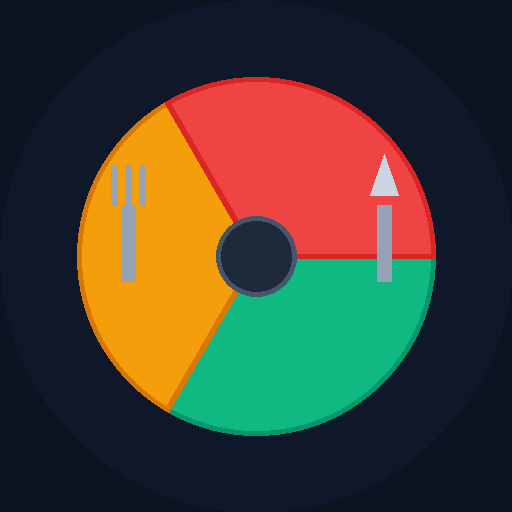
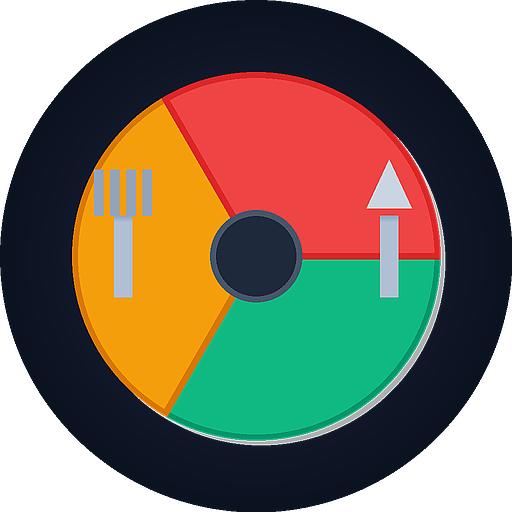
fix: corrigir salvamento de login e melhorar nitidez dos ícones

diff --git a/index.html b/index.html
@@ -2386,6 +2386,20 @@
             
             localStorage.setItem(CURRENT_USER_KEY, JSON.stringify(currentUser));
             
+            // Salvar credenciais se "lembrar login" estiver marcado (APÓS login bem-sucedido)
+            const rememberCheckbox = document.getElementById('rememberLogin');
+            if (rememberCheckbox && rememberCheckbox.checked) {
+              console.log('💾 Salvando credenciais para login automático...');
+              localStorage.setItem('nutrix-remember-login', 'true');
+              localStorage.setItem('nutrix-saved-email', username);
+              localStorage.setItem('nutrix-saved-password', btoa(password));
+            } else {
+              console.log('🔓 Removendo credenciais salvas (lembrar desmarcado)');
+              localStorage.removeItem('nutrix-remember-login');
+              localStorage.removeItem('nutrix-saved-email');
+              localStorage.removeItem('nutrix-saved-password');
+            }
+            
             showAuthMessage('✅ Login bem-sucedido!', 'success');
             
             setTimeout(async () => {
@@ -3217,19 +3231,9 @@
       e.preventDefault();
       const username = document.getElementById('loginUsername').value;
       const password = document.getElementById('loginPassword').value;
-      const rememberLogin = document.getElementById('rememberLogin').checked;
       
-      // Salvar credenciais se "lembrar login" estiver marcado
-      if (rememberLogin) {
-        localStorage.setItem('nutrix-remember-login', 'true');
-        localStorage.setItem('nutrix-saved-email', username);
-        localStorage.setItem('nutrix-saved-password', btoa(password)); // Criptografar básico
-      } else {
-        localStorage.removeItem('nutrix-remember-login');
-        localStorage.removeItem('nutrix-saved-email');
-        localStorage.removeItem('nutrix-saved-password');
-      }
-      
+      // A lógica de salvar credenciais foi movida para dentro da função login()
+      // para garantir que só salva APÓS login bem-sucedido
       login(username, password);
     });
     

diff --git a/sw.js b/sw.js
@@ -1,4 +1,4 @@
-const CACHE_NAME = 'nutrix-v12';
+const CACHE_NAME = 'nutrix-v13';
 
 // Detectar base path automaticamente
 const BASE_PATH = self.location.pathname.replace('/sw.js', '');

diff --git a/criar-icones.py b/criar-icones.py
@@ -1,0 +1,150 @@
+from PIL import Image, ImageDraw, ImageFilter
+import os
+
+# Criar pasta icons se não existir
+os.makedirs('icons', exist_ok=True)
+
+def criar_icone(tamanho):
+    # Criar imagem em alta resolução (2x) para melhor qualidade
+    escala = 2
+    tamanho_alta_res = tamanho * escala
+    img = Image.new('RGBA', (tamanho_alta_res, tamanho_alta_res), (0, 0, 0, 0))
+    draw = ImageDraw.Draw(img, 'RGBA')
+    
+    # Fundo com gradiente radial suave
+    centro = tamanho_alta_res // 2
+    for i in range(centro, 0, -2):
+        distancia = i / centro
+        # Gradiente de preto puro para cinza escuro azulado
+        r = int(11 + (30 - 11) * (1 - distancia))
+        g = int(18 + (41 - 18) * (1 - distancia))
+        b = int(32 + (66 - 32) * (1 - distancia))
+        alpha = 255
+        draw.ellipse(
+            [(centro - i, centro - i), (centro + i, centro + i)],
+            fill=(r, g, b, alpha)
+        )
+    
+    # Prato principal com sombra
+    raio_prato = int(tamanho_alta_res * 0.36)
+    
+    # Sombra do prato (blur)
+    sombra_offset = int(tamanho_alta_res * 0.01)
+    draw.ellipse(
+        [(centro - raio_prato + sombra_offset, centro - raio_prato + sombra_offset), 
+         (centro + raio_prato + sombra_offset, centro + raio_prato + sombra_offset)],
+        fill=(0, 0, 0, 80)
+    )
+    
+    # Prato base (cinza escuro)
+    draw.ellipse(
+        [(centro - raio_prato, centro - raio_prato), 
+         (centro + raio_prato, centro + raio_prato)],
+        fill=(30, 41, 59, 255),  # Cinza escuro
+        outline=(51, 65, 85, 255),  # Borda cinza clara
+        width=int(tamanho_alta_res * 0.02)
+    )
+    
+    # Fatias coloridas (macronutrientes) com anti-aliasing melhorado
+    # Verde (vegetais/proteína)
+    draw.pieslice(
+        [(centro - raio_prato, centro - raio_prato), 
+         (centro + raio_prato, centro + raio_prato)],
+        start=0, end=120,
+        fill=(16, 185, 129, 255),  # Verde vibrante
+        outline=(5, 150, 105, 255),
+        width=int(tamanho_alta_res * 0.012)
+    )
+    
+    # Laranja (carboidratos)
+    draw.pieslice(
+        [(centro - raio_prato, centro - raio_prato), 
+         (centro + raio_prato, centro + raio_prato)],
+        start=120, end=240,
+        fill=(245, 158, 11, 255),  # Laranja
+        outline=(217, 119, 6, 255),
+        width=int(tamanho_alta_res * 0.012)
+    )
+    
+    # Vermelho (proteínas/gorduras)
+    draw.pieslice(
+        [(centro - raio_prato, centro - raio_prato), 
+         (centro + raio_prato, centro + raio_prato)],
+        start=240, end=360,
+        fill=(239, 68, 68, 255),  # Vermelho
+        outline=(220, 38, 38, 255),
+        width=int(tamanho_alta_res * 0.012)
+    )
+    
+    # Círculo central (centro do prato)
+    raio_centro = int(tamanho_alta_res * 0.09)
+    draw.ellipse(
+        [(centro - raio_centro, centro - raio_centro), 
+         (centro + raio_centro, centro + raio_centro)],
+        fill=(30, 41, 59, 255),
+        outline=(71, 85, 105, 255),
+        width=int(tamanho_alta_res * 0.012)
+    )
+    
+    # Garfo (esquerda) com mais detalhes
+    garfo_x = centro - int(tamanho_alta_res * 0.26)
+    garfo_y = centro - int(tamanho_alta_res * 0.08)
+    largura_talher = int(tamanho_alta_res * 0.018)
+    
+    # Cabo do garfo com gradiente
+    for i in range(10):
+        offset = i * int(tamanho_alta_res * 0.015) / 10
+        cor_gradiente = 148 + int((180 - 148) * i / 10)
+        draw.rectangle(
+            [(garfo_x - largura_talher, garfo_y + offset), 
+             (garfo_x + largura_talher, garfo_y + int(tamanho_alta_res * 0.16))],
+            fill=(cor_gradiente, cor_gradiente + 15, cor_gradiente + 35, 255)
+        )
+    
+    # Dentes do garfo (4 dentes para mais realismo)
+    for i in range(-1, 3):
+        x_pos = garfo_x + (i - 0.5) * largura_talher * 1.8
+        draw.rectangle(
+            [(x_pos - largura_talher//2, garfo_y - int(tamanho_alta_res * 0.09)), 
+             (x_pos + largura_talher//2, garfo_y)],
+            fill=(148, 163, 184, 255)
+        )
+    
+    # Faca (direita) com mais detalhes
+    faca_x = centro + int(tamanho_alta_res * 0.26)
+    faca_y = centro - int(tamanho_alta_res * 0.08)
+    
+    # Cabo da faca com gradiente
+    for i in range(10):
+        offset = i * int(tamanho_alta_res * 0.015) / 10
+        cor_gradiente = 148 + int((180 - 148) * i / 10)
+        draw.rectangle(
+            [(faca_x - largura_talher, faca_y + offset), 
+             (faca_x + largura_talher, faca_y + int(tamanho_alta_res * 0.16))],
+            fill=(cor_gradiente, cor_gradiente + 15, cor_gradiente + 35, 255)
+        )
+    
+    # Lâmina da faca (mais realista)
+    draw.polygon(
+        [(faca_x, faca_y - int(tamanho_alta_res * 0.11)),
+         (faca_x - largura_talher * 2.5, faca_y - int(tamanho_alta_res * 0.015)),
+         (faca_x + largura_talher * 2.5, faca_y - int(tamanho_alta_res * 0.015))],
+        fill=(203, 213, 225, 255)
+    )
+    
+    # Aplicar anti-aliasing e reduzir para tamanho final
+    img = img.resize((tamanho, tamanho), Image.Resampling.LANCZOS)
+    
+    # Aplicar leve sharpen para aumentar nitidez
+    img = img.filter(ImageFilter.SHARPEN)
+    
+    # Salvar com máxima qualidade
+    img.save(f'icons/icon-{tamanho}.png', 'PNG', optimize=False, compress_level=1)
+    print(f'✅ Ícone {tamanho}x{tamanho} criado em alta qualidade!')
+
+# Criar os dois tamanhos
+criar_icone(192)
+criar_icone(512)
+
+print('\n🎨 Ícones criados com ALTA NITIDEZ!')
+print('📁 Salvos em: icons/icon-192.png e icons/icon-512.png')
